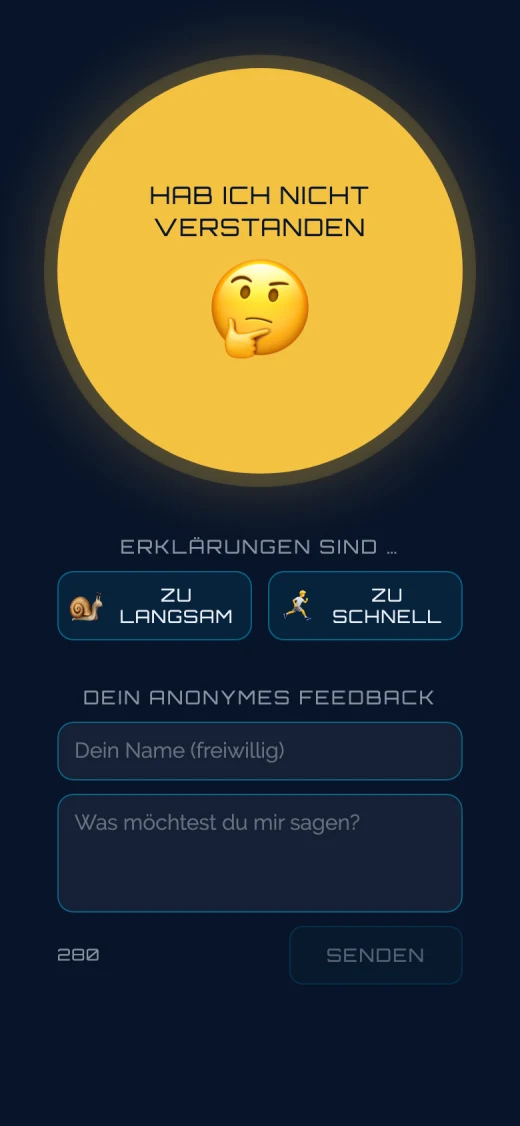
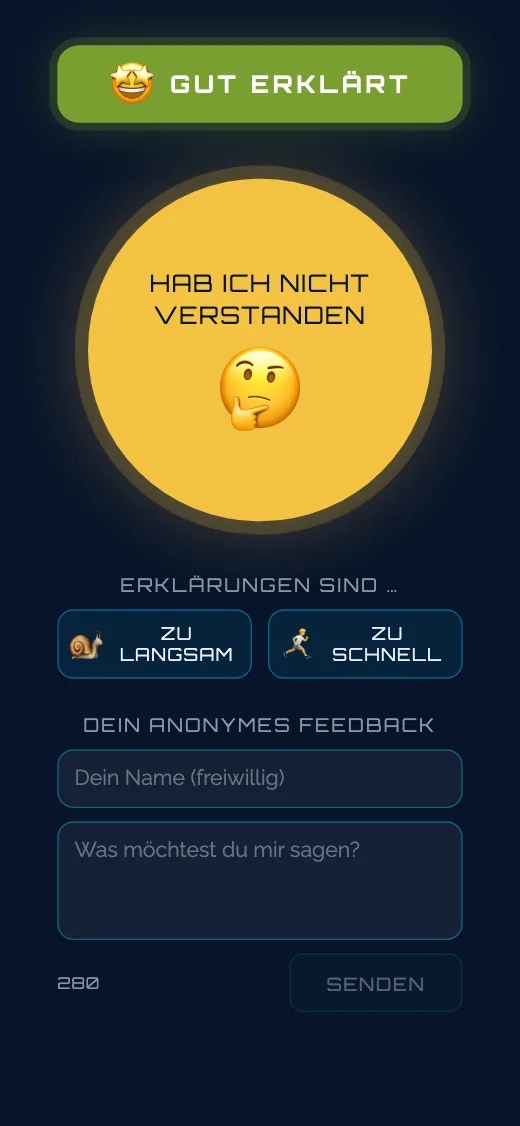
buzzer: the green key says "GUT ERKLÄRT" instead of "EUPHORIE" (one word, JUBEL_WORT, also after the "DANKE!"), and the yellow key sits lower for more air between the two - 20 -> 42 px on a 390 x 844 phone, 12 -> 20 px on 375 x 667 / 390 x 664, where the yellow circle is 7 px smaller so nothing scro

diff --git a/HTML/buzzer.html b/HTML/buzzer.html
@@ -73,6 +73,9 @@
             /* was min(78vw, 58vh, 380px); smaller since the EUPHORIE key sits above it (Doc, 11.11.2026: "alles ein
                Stück nach unten schiebst, gegebenenfalls kleiner machst") */
             --knopf: min(66vw, 32vh, 380px);
+            /* more air under the green key (Doc, 11.11.2026: "der orange Button drunter soll ein Stück nach unten") -
+               less on a short screen, see the media rules at the end */
+            margin-top: 22px;
             width: var(--knopf); aspect-ratio: 1; border-radius: 50%;
             display: flex; flex-direction: column; align-items: center; justify-content: center; gap: 10px;
             padding: 0 calc(var(--knopf) * 0.14); cursor: pointer; touch-action: manipulation;
@@ -235,15 +238,16 @@
 
         /* a short screen (small phone, a browser's bars, a laptop): the yellow key and the text box give way, so all
            of it still fits without scrolling (since the EUPHORIE key, 11.11.2026) - last, so it wins over the rules above */
-        @media (max-height: 760px) {
-            #knopf { --knopf: min(66vw, 27vh, 380px); }
+        /* (800, was 760: a 1024 x 768 laptop scrolled by 17 px, and the yellow key moved down since) */
+        @media (max-height: 800px) {
+            #knopf { --knopf: min(66vw, 27vh, 380px); margin-top: 16px; }
             #tempo { margin-top: 8px; }
             #text { min-height: 64px; }
         }
         /* a small phone with the browser's bars (375 x 667, 390 x 664): a little tighter still */
         @media (max-height: 700px) {
             body { gap: 12px; }
-            #knopf { --knopf: min(66vw, 25vh, 380px); }
+            #knopf { --knopf: min(66vw, 24vh, 380px); margin-top: 8px; }
             #text { min-height: 56px; }
         }
     </style>
@@ -260,7 +264,7 @@
 
     <button type="button" id="jubel" hidden>
         <img id="jubel-bild" alt="" draggable="false" src="https://cdn.jsdelivr.net/gh/iamcal/emoji-data@master/img-apple-160/1f929.png">
-        <span id="jubel-wort">EUPHORIE</span>
+        <span id="jubel-wort">GUT ERKLÄRT</span>
     </button>
     <button type="button" id="knopf" hidden>
         <span id="knopf-text">HAB ICH NICHT VERSTANDEN</span>
@@ -471,12 +475,14 @@
             const KEY_JUBEL = 'buzzer-jubel', JUBEL_RUHE = 10000, JUBEL_DANKE = 1800;
             new Image().src = APPLE + '1f386.png';                       // 🎆 for the thanks, fetched once
             let jubelUhren = [];
+            // the green key's word (Doc, 11.11.2026, 17:20: "der Button für Euphorie soll bitte heißen: gut erklärt")
+            const JUBEL_WORT = 'GUT ERKLÄRT';
             function jubelStand(wort, bild) { jubelWort.textContent = wort; jubelBild.src = APPLE + bild + '.png'; }
             function jubelFrei() {
                 jubelUhren.forEach(clearTimeout); jubelUhren = [];
                 jubelKnopf.classList.remove('ruht', 'danke');
                 jubelKnopf.disabled = false;
-                jubelStand('EUPHORIE', '1f929');
+                jubelStand(JUBEL_WORT, '1f929');
             }
             // rest until bis (ms): grey, the bar runs down from where it stands; danke: the thanks first
             function jubelRuhe(bis, danke) {
@@ -492,8 +498,8 @@
                 if (danke) {
                     jubelKnopf.classList.add('danke');
                     jubelStand('DANKE!', '1f386');
-                    jubelUhren.push(setTimeout(() => { jubelKnopf.classList.remove('danke'); jubelStand('EUPHORIE', '1f929'); }, Math.min(JUBEL_DANKE, rest)));
-                } else jubelStand('EUPHORIE', '1f929');
+                    jubelUhren.push(setTimeout(() => { jubelKnopf.classList.remove('danke'); jubelStand(JUBEL_WORT, '1f929'); }, Math.min(JUBEL_DANKE, rest)));
+                } else jubelStand(JUBEL_WORT, '1f929');
                 jubelUhren.push(setTimeout(jubelFrei, rest));
             }
             function jubelLies() {
